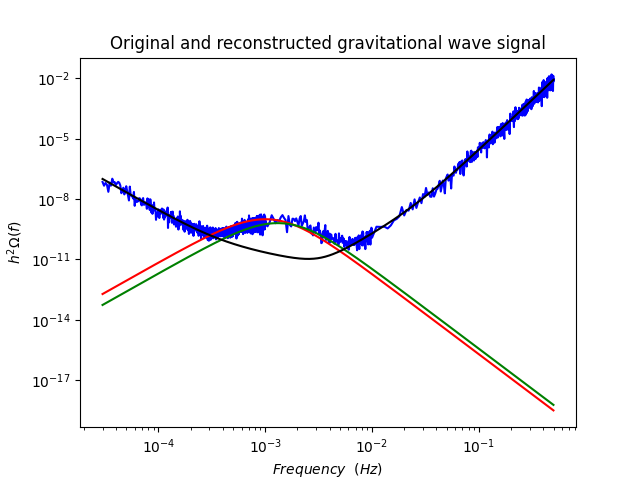
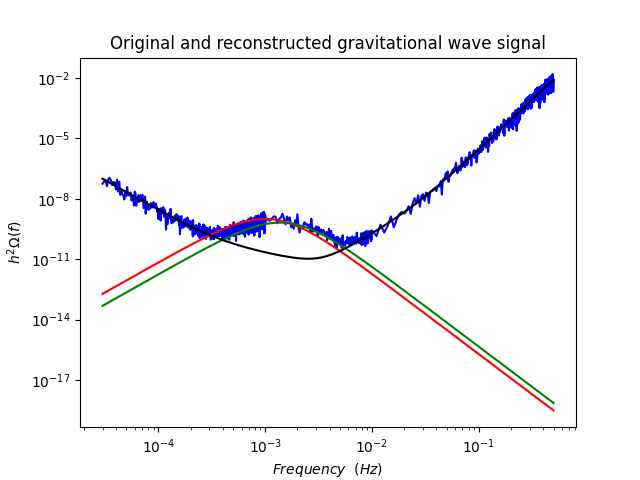
updated noise

diff --git a/Main/Data_Analysis/combined_data_gen.py b/Main/Data_Analysis/combined_data_gen.py
@@ -3,11 +3,12 @@ import matplotlib.pyplot as plt
 from giese_lisa_sens import S_n, P_acc, P_oms, Omega_N
 from ps_rewritten import PowerSpectrum
 import time
+from noise import lisa_noise_1, lisa_noise_2
 
 
-def make_data(frequencies, N_c, A, P, PS):
-    def calculate_N(frequencies, N_c, A, P):
-        total_noise = np.zeros((len(frequencies), N_c))
+def make_data_no_DWD(frequencies, N_c, A, P, PS):
+    def calculate_N():
+        total_noise = np.empty((len(frequencies), N_c))
                 
         for i, f in enumerate(frequencies):
             for j in range(N_c):
@@ -15,9 +16,10 @@ def make_data(frequencies, N_c, A, P, PS):
                 G_2 = np.random.normal(loc=0.0, scale=np.sqrt(Omega_N(f, A, P)))
                 N = (G_1**2 + G_2**2) / 2
                 total_noise[i, j] = N
+                print(total_noise)
         return total_noise
 
-    def calculate_S(frequencies, N_c, PS):
+    def calculate_S():
         total_signal = np.zeros((len(frequencies), N_c))  # Initialize a 2D array
         
         for i, f in enumerate(frequencies):
@@ -29,12 +31,67 @@ def make_data(frequencies, N_c, A, P, PS):
         return total_signal
 
     # Calculate noise and signal arrays and adding them together to form the data
-    Total_Noise = calculate_N(frequencies, N_c, A, P)
-    Total_Signal = calculate_S(frequencies, N_c, PS)
-    Total_Data = (Total_Noise + Total_Signal)
+    Total_Noise = calculate_N()
+    Total_Signal = calculate_S()
+    Total_Data = Total_Noise + Total_Signal
     print("Total Generated Data is:", Total_Data)
     return Total_Data
 
+""" def make_data_DWD_1(frequencies, N_c, PS):
+    def calculate_N():
+        total_noise = np.zeros((len(frequencies), N_c))
+                
+        for i, f in enumerate(frequencies):
+            for j in range(N_c):
+                G_1 = np.random.normal(loc=0.0, scale=np.sqrt(lisa_noise_1(f, 7.44e-14, 2.96e-7, -1.98, -2.6, 3, 15)))
+                G_2 = np.random.normal(loc=0.0, scale=np.sqrt(lisa_noise_1(f, 7.44e-14, 2.96e-7, -1.98, -2.6, 3, 15)))
+                N = (G_1**2 + G_2**2) / 2
+                total_noise[i, j] = N
+        return total_noise
+
+    def calculate_S():
+        total_signal = np.zeros((len(frequencies), N_c))  # Initialize a 2D array
+        
+        for i, f in enumerate(frequencies):
+            for j in range(N_c):
+                G_1 = np.random.normal(loc=0.0, scale=np.sqrt(PS.Omega_GW(f, PS.Amp, PS.fp_0())))
+                G_2 = np.random.normal(loc=0.0, scale=np.sqrt(PS.Omega_GW(f, PS.Amp, PS.fp_0())))
+                S = (G_1**2 + G_2**2) / 2
+                total_signal[i, j] = S
+        return total_signal
+
+    # Calculate noise and signal arrays and adding them together to form the data
+    Total_Data = calculate_N() + calculate_S()
+    print("Total Generated Data is:", Total_Data)
+    return Total_Data
+
+def make_data_DWD_2(frequencies, N_c, PS):
+    def calculate_N():
+        total_noise = np.zeros((len(frequencies), N_c))
+                
+        for i, f in enumerate(frequencies):
+            for j in range(N_c):
+                G_1 = np.random.normal(loc=0.0, scale=np.sqrt(lisa_noise_2(f, 0.138, -221, 521, 1680, 3, 15)))
+                G_2 = np.random.normal(loc=0.0, scale=np.sqrt(lisa_noise_2(f, 0.138, -221, 521, 1680, 3, 15)))
+                N = (G_1**2 + G_2**2) / 2
+                total_noise[i, j] = N
+        return total_noise
+
+    def calculate_S():
+        total_signal = np.zeros((len(frequencies), N_c))  # Initialize a 2D array
+        
+        for i, f in enumerate(frequencies):
+            for j in range(N_c):
+                G_1 = np.random.normal(loc=0.0, scale=np.sqrt(PS.Omega_GW(f, PS.Amp, PS.fp_0())))
+                G_2 = np.random.normal(loc=0.0, scale=np.sqrt(PS.Omega_GW(f, PS.Amp, PS.fp_0())))
+                S = (G_1**2 + G_2**2) / 2
+                total_signal[i, j] = S
+        return total_signal
+
+    # Calculate noise and signal arrays and adding them together to form the data
+    Total_Data = calculate_N() + calculate_S()
+    print("Total Generated Data is:", Total_Data)
+    return Total_Data """
 
 if __name__ == "__main__":
     start_time = time.time()
@@ -44,7 +101,7 @@ if __name__ == "__main__":
     frequencies = np.concatenate((f_low, f_middle, f_high))
     PS = PowerSpectrum(0.6, 50, 180, 0.8)
     GW_model = PS.Omega_GW(frequencies, PS.Amp, PS.fp_0())
-    DATA = make_data(frequencies, 5, 3, 15, PS)
+    DATA = make_data_no_DWD(frequencies, 5, 3, 15, PS)
     print(DATA[0:5])
     mean = np.mean(DATA, axis=1)
     std_dev = np.std(DATA, axis=1)

diff --git a/Main/Data_Analysis/noise.py b/Main/Data_Analysis/noise.py
@@ -1,6 +1,7 @@
 import numpy as np
 from numpy import pi
 import matplotlib.pyplot as plt
+from giese_lisa_sens import Omega_N
 
 
 # Constants
@@ -53,3 +54,22 @@ def lisa_noise_2(f, alpha, beta, gamma, k, A, P):
         return ((2*(pi**2))/(3*H_0**2))*(f**3)*S_n()
 
     return DWD_noise_2() + Omega_N()
+
+if __name__ == "__main__":
+    f_low = np.arange(0.00003, 0.001, 0.000001)
+    f_middle = np.arange(0.001, 0.01, 0.00005)
+    f_high = np.arange(0.01, 0.5, 0.001)
+    frequencies = np.concatenate((f_low, f_middle, f_high)) 
+    DWD_Noise_1 = lisa_noise_1(frequencies, 7.44e-14, 2.96e-7, -1.98, -2.6, 3, 15)
+    DWD_Noise_2 = lisa_noise_2(frequencies, 0.138, -221, 521, 1680, 3, 15)
+    Sensitivity = Omega_N(frequencies, 3, 15)
+    plt.loglog(frequencies, DWD_Noise_1, label='DWD Noise 1')
+    plt.loglog(frequencies, DWD_Noise_2, label='DWD_Noise_2')
+    plt.loglog(frequencies, Sensitivity, label='LISA Sensitivity')
+    plt.title(r'$LISA$' + " " + r'$\Omega$' + " " + '$Signal$')
+    plt.xlabel(r'$Frequency$' + "  " + r'$(Hz)$')
+    plt.ylabel(r'$h^{2}\Omega(f)$')
+    plt.legend()
+    plt.grid = 'True'
+    plt.savefig('Lisa sensitivity + DWD noise fits')
+    plt.show()

diff --git a/Main/Data_Analysis/chi_squared_function_combined.py b/Main/Data_Analysis/chi_squared_function_combined.py
@@ -4,7 +4,7 @@ import matplotlib.pyplot as plt
 from scipy.optimize import minimize # Used to minimize for the parameters
 from giese_lisa_sens import S_n, P_oms, P_acc, Omega_N
 from ps_rewritten import PowerSpectrum
-from combined_data_gen import make_data
+from combined_data_gen import make_data_DWD_1, make_data_DWD_2, make_data_no_DWD
 from SNR import calculate_snr_
 import time
 
@@ -33,7 +33,7 @@ N_c = 5
 # Generating the mock data, taking the mean and the standard deviation
 powerspectrum = PowerSpectrum(0.6, 50, 180, 0.6)
 
-DATA = make_data(frequencies, N_c, 3, 15, powerspectrum)
+DATA = make_data_no_DWD(frequencies, N_c, 3, 15, powerspectrum)
 mean_sample_data = np.mean(DATA, axis=1) # Should probably include this in the function/class?
 standard_deviation = np.std(DATA, axis=1)
 
